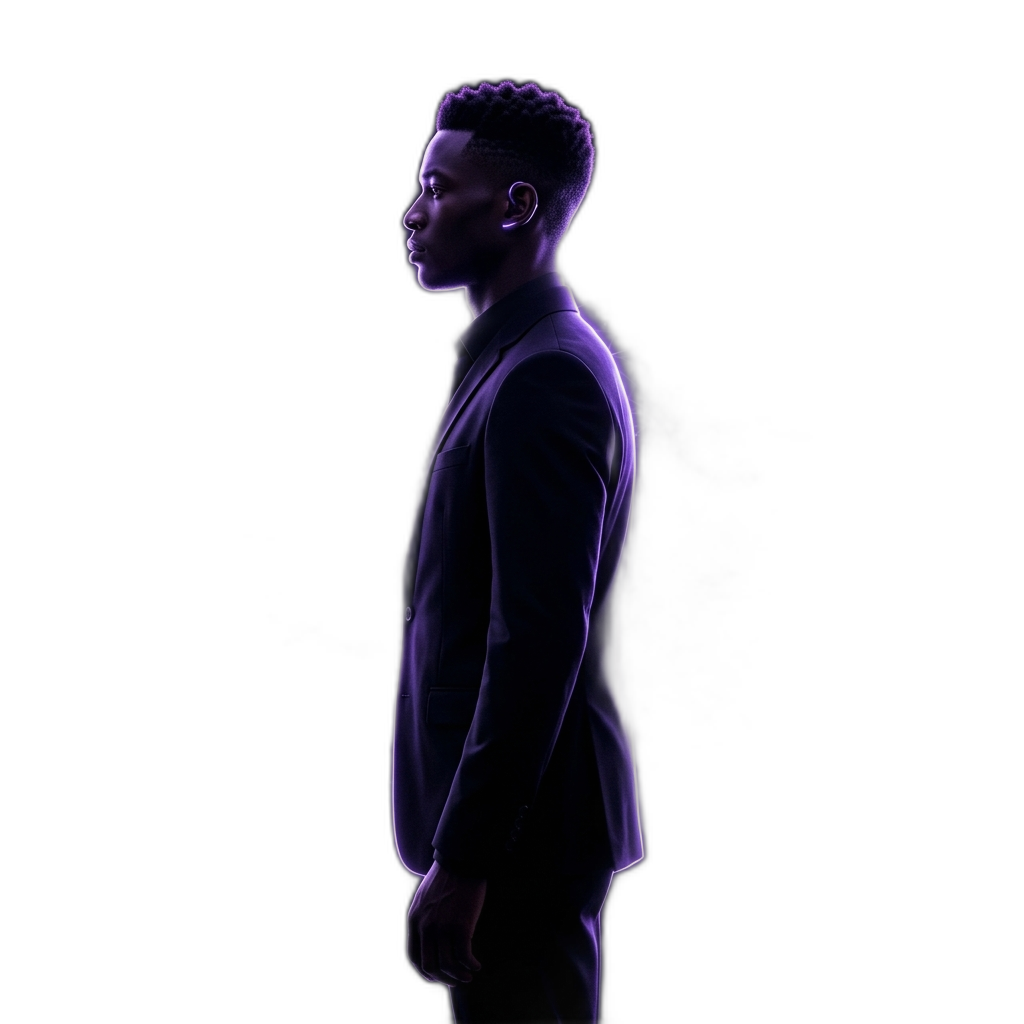
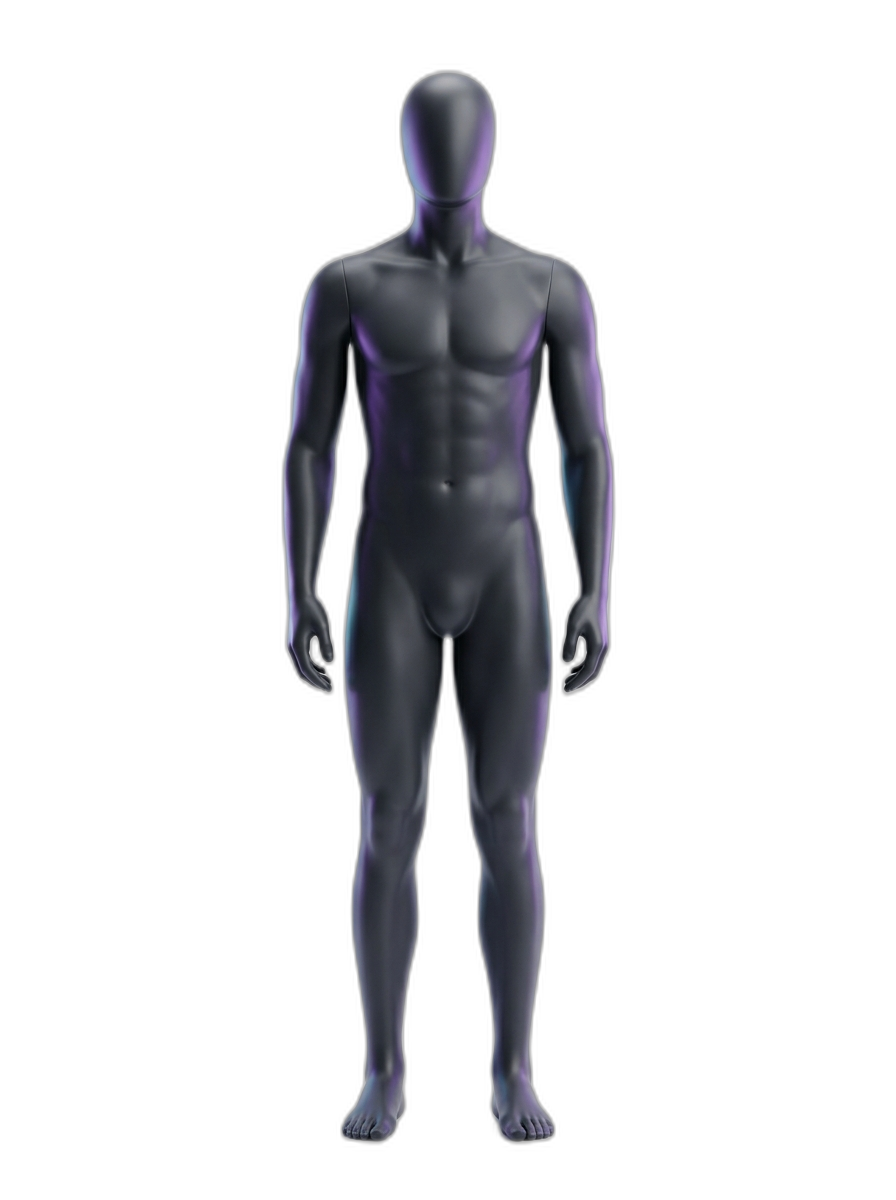
feat(cinematic): add front-facing 3D mannequin, one-time playback, and permanent 3D end state

Changed region(s): [[0.3125, 0.0625, 0.6875, 1.0]]

diff --git a/cinematic-story.css b/cinematic-story.css
@@ -378,17 +378,17 @@
 .crit-4 { bottom: 18%; right: 10%; top: auto; }
 .crit-5 { bottom: 6%; left: 50%; top: auto; transform: translateX(-50%); }
 
-/* Human Silhouette & Profile Node (Scene 3) */
+/* Front-Facing 3D Male Mannequin Profile (Scene 3) */
 .cinema-profile-node {
   position: absolute;
   width: 320px;
-  height: 420px;
+  height: 480px;
   display: flex;
   align-items: center;
   justify-content: center;
   pointer-events: none;
   opacity: 0;
-  transform: scale(0.85);
+  transform: scale(0.9);
   transition: opacity 0.5s ease, transform 0.5s ease;
   z-index: 12;
 }
@@ -396,7 +396,8 @@
 .cinema-profile-svg {
   width: 100%;
   height: 100%;
-  filter: drop-shadow(0 0 25px rgba(91, 61, 245, 0.4));
+  object-fit: contain;
+  filter: drop-shadow(0 0 28px rgba(124, 58, 237, 0.45));
 }
 
 /* Context Badges (Scene 3) */
@@ -901,6 +902,31 @@
   border-color: rgba(255, 255, 255, 0.3);
 }
 
+.cinema-replay-btn {
+  display: inline-flex;
+  align-items: center;
+  gap: 6px;
+  padding: 16px 22px;
+  border-radius: 9999px;
+  background: rgba(255, 255, 255, 0.04);
+  border: 1px solid rgba(255, 255, 255, 0.14);
+  color: rgba(255, 255, 255, 0.78);
+  font-family: 'DM Sans', sans-serif;
+  font-size: 0.95rem;
+  font-weight: 500;
+  text-decoration: none;
+  cursor: pointer;
+  backdrop-filter: blur(10px);
+  transition: all 0.25s ease;
+}
+
+.cinema-replay-btn:hover {
+  background: rgba(255, 255, 255, 0.1);
+  color: #ffffff;
+  border-color: rgba(255, 255, 255, 0.3);
+  transform: translateY(-1px);
+}
+
 .cinema-trust-pill {
   margin-top: 24px;
   display: flex;
@@ -1149,6 +1175,11 @@
   .cinema-btn-secondary {
     padding: 9px 16px !important;
     font-size: 0.80rem !important;
+  }
+
+  .cinema-replay-btn {
+    padding: 8px 14px !important;
+    font-size: 0.76rem !important;
   }
 
   .cinema-final-actions {

diff --git a/index.html b/index.html
@@ -136,6 +136,7 @@
                   <div class="cinema-final-actions">
                     <button class="cinema-btn-primary" data-open-auth>Create Your 3D Closet Free <span>→</span></button>
                     <a class="cinema-btn-secondary" href="https://play.google.com/store/apps/details?id=com.clothmatics.app" target="_blank" rel="noopener noreferrer">Get the App</a>
+                    <button type="button" class="cinema-replay-btn" id="cinema-replay-btn" title="Replay Story" aria-label="Replay fashion story">Replay Story ↻</button>
                   </div>
                   <div class="cinema-trust-pill">
                     <span>⚡ Instant 3D Output</span>
@@ -246,9 +247,9 @@
                 <span class="meta-badge">CONFIDENCE 99.5%</span>
               </div>
 
-              <!-- Human Silhouette Profile & Neural Node (Scene 3) -->
+              <!-- Front-Facing 3D Male Mannequin Profile (Scene 3) -->
               <div class="cinema-profile-node" id="cinema-profile-node" aria-hidden="true">
-                <img class="cinema-profile-svg" src="./assets/cinematic/silhouette.png" alt="Personal Style Profile" width="400" height="400" decoding="async" />
+                <img class="cinema-profile-svg" src="./assets/cinematic/silhouette.png" alt="Front 3D Male Mannequin Profile" width="896" height="1200" decoding="async" />
               </div>
 
               <!-- Contextual Intelligence Badges (Scene 3) -->
